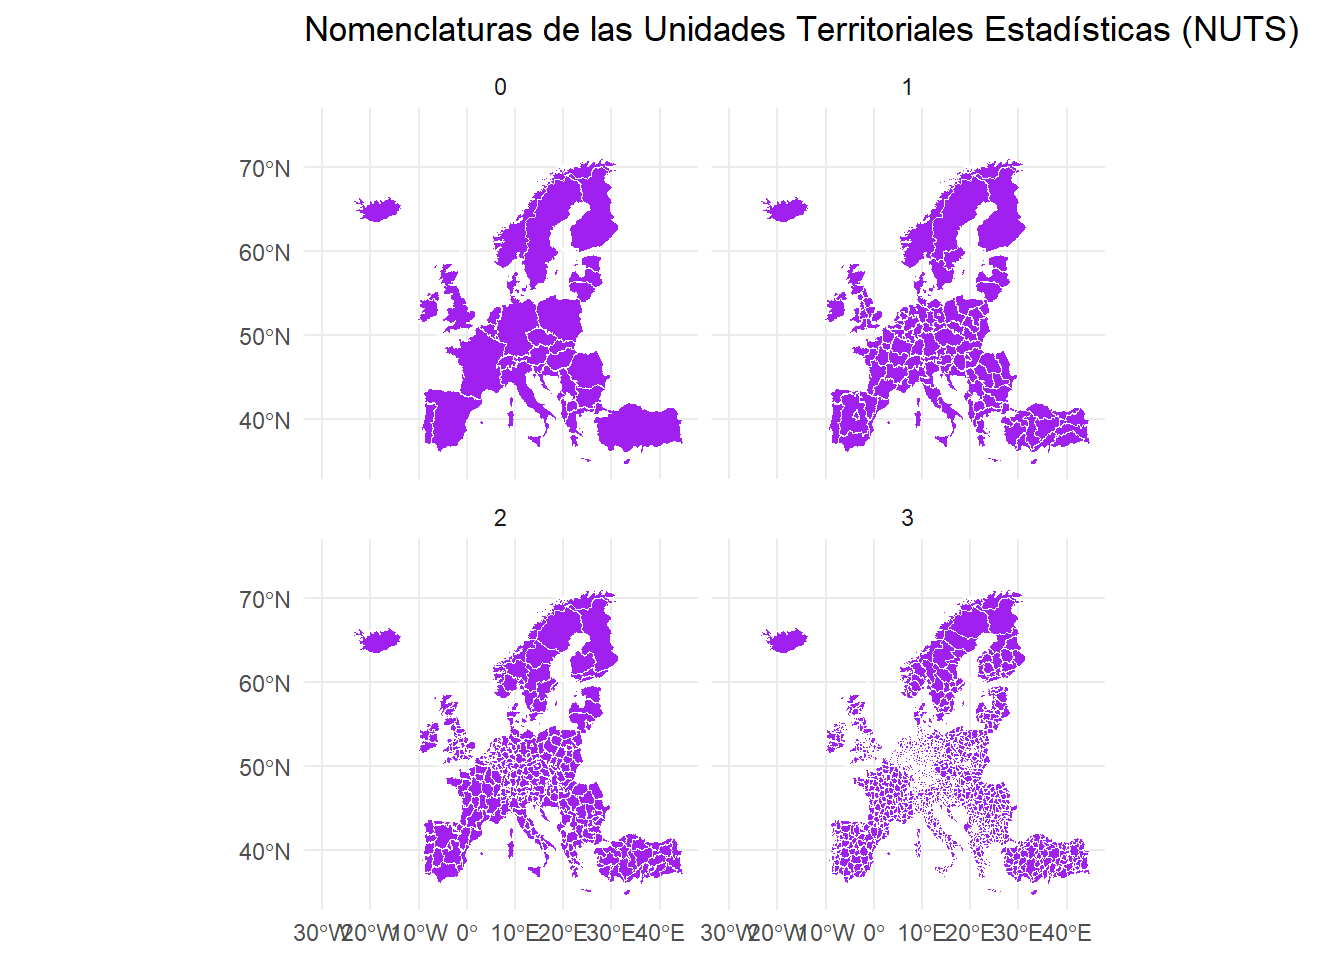
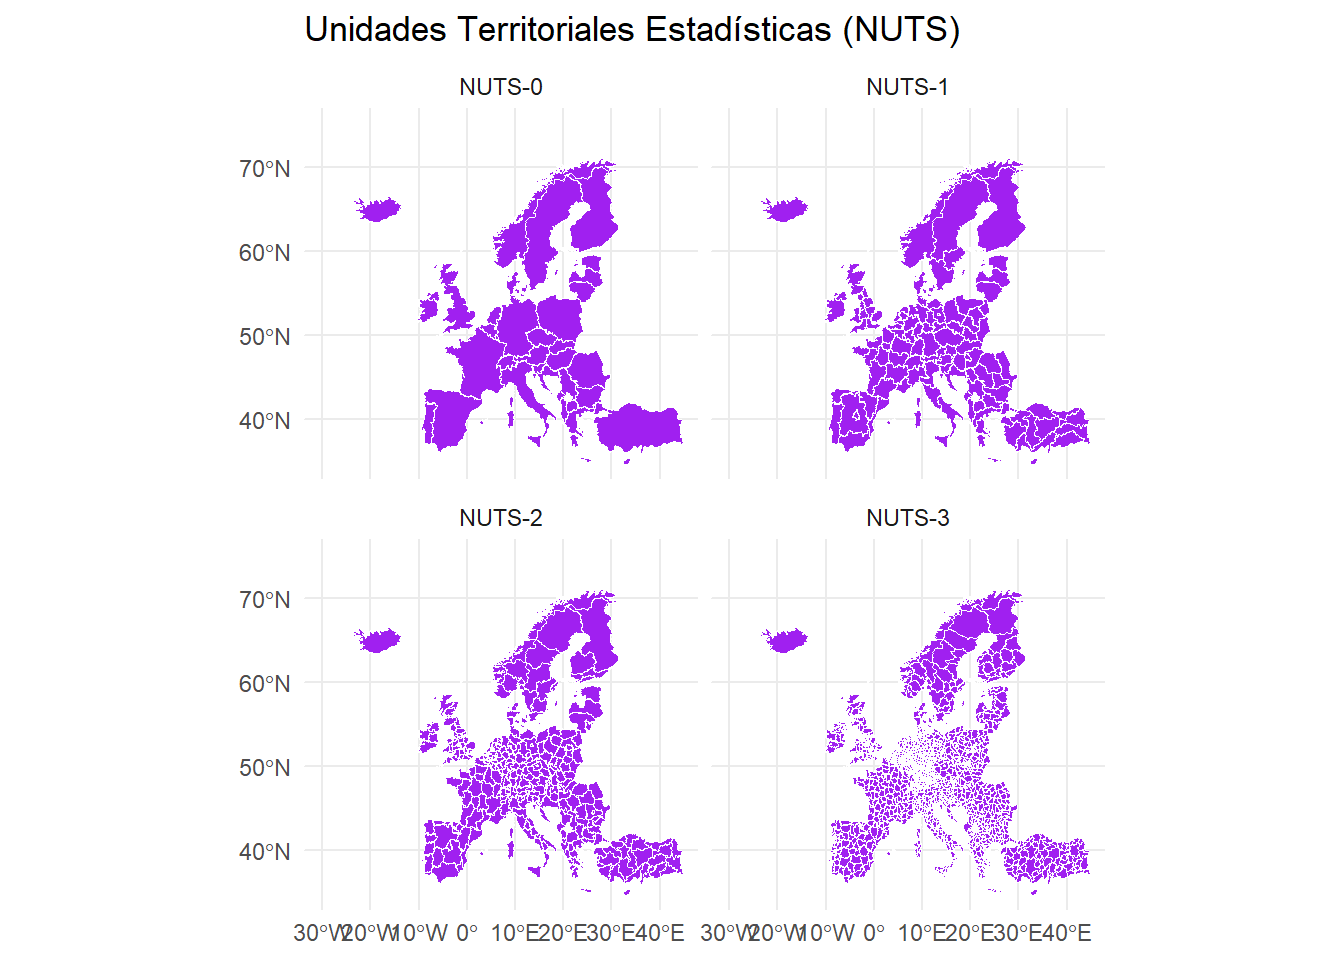
post 13

Changed region(s): [[0.2188, 0.0, 0.9688, 0.0938], [0.625, 0.5312, 0.7188, 0.5625], [0.3438, 0.5312, 0.4062, 0.5625]]

diff --git a/public/tags/mapas/index.html b/public/tags/mapas/index.html
@@ -14,7 +14,7 @@
     <script async custom-element="amp-youtube" src="https://cdn.ampproject.org/v0/amp-youtube-0.1.js"></script>
     
     <script async custom-element="amp-accordion" src="https://cdn.ampproject.org/v0/amp-accordion-0.1.js"></script>
-    <title>Mapas - R que R</title>
+    <title>mapas - R que R</title>
     <link href="https://fonts.googleapis.com/css?family=Inconsolata|Montserrat" rel="stylesheet">
[1 lines of base64/hex data omitted]
 </head>
@@ -62,7 +62,7 @@
     
 
     <header class="www-header">
-        <h1 class="mb4 px2 col-12 sm-col-8 mx-auto">Mapas</h1>
+        <h1 class="mb4 px2 col-12 sm-col-8 mx-auto">mapas</h1>
 
         
 

diff --git a/public/tags/maps/index.html b/public/tags/maps/index.html
@@ -14,7 +14,7 @@
     <script async custom-element="amp-youtube" src="https://cdn.ampproject.org/v0/amp-youtube-0.1.js"></script>
     
     <script async custom-element="amp-accordion" src="https://cdn.ampproject.org/v0/amp-accordion-0.1.js"></script>
-    <title>Maps - R que R</title>
+    <title>maps - R que R</title>
     <link href="https://fonts.googleapis.com/css?family=Inconsolata|Montserrat" rel="stylesheet">
[1 lines of base64/hex data omitted]
 </head>
@@ -62,7 +62,7 @@
     
 
     <header class="www-header">
-        <h1 class="mb4 px2 col-12 sm-col-8 mx-auto">Maps</h1>
+        <h1 class="mb4 px2 col-12 sm-col-8 mx-auto">maps</h1>
 
         
 

diff --git a/content/nuts.html b/content/nuts.html
@@ -28,26 +28,9 @@ tags: ["Eurostat", "NUTS", "Europa", "Mapas"]
 </p>
 <pre class="r"><code>
 library(eurostat)
-## Warning: package &#39;eurostat&#39; was built under R version 3.6.1
 library(tidyverse)
-## Warning: package &#39;tidyverse&#39; was built under R version 3.6.1
-## -- Attaching packages --------------------------------------------------------------------------------------------------------------------------- tidyverse 1.2.1 --
-## v ggplot2 3.2.1     v purrr   0.3.3
-## v tibble  2.1.3     v dplyr   0.8.3
-## v tidyr   1.0.0     v stringr 1.4.0
-## v readr   1.3.1     v forcats 0.4.0
-## Warning: package &#39;ggplot2&#39; was built under R version 3.6.1
-## Warning: package &#39;tidyr&#39; was built under R version 3.6.1
-## Warning: package &#39;purrr&#39; was built under R version 3.6.1
-## Warning: package &#39;dplyr&#39; was built under R version 3.6.1
-## -- Conflicts ------------------------------------------------------------------------------------------------------------------------------ tidyverse_conflicts() --
-## x dplyr::filter() masks stats::filter()
-## x dplyr::lag()    masks stats::lag()
 library(sf)
-## Warning: package &#39;sf&#39; was built under R version 3.6.1
-## Linking to GEOS 3.6.1, GDAL 2.2.3, PROJ 4.9.3
-library(DT)
-## Warning: package &#39;DT&#39; was built under R version 3.6.1</code></pre>
+library(DT)</code></pre>
 <p><br />
 </p>
 </div>
@@ -55,9 +38,13 @@ library(DT)
 <h1>Simple feature (sf)</h1>
 <p><br />
 </p>
-<p>Como se expone <a href="https://r-spatial.github.io/sf/articles/sf1.html">aquí</a>, <em>simple feature</em> o <em>simple feature access</em> hace referencia al <em>International Organization for Standarization (ISO 19125)</em> que describe y especifica cómo los objetos en el mundo real pueden ser representados en los ordenadores, con especial énfasis a los objetos espaciales geométricos. Por tanto, definen un modelo común de geometrías de dos dimensiones que se utilizan en los sistemas de información geográfica.</p>
+<p>Como se expone <a href="https://r-spatial.github.io/sf/articles/sf1.html">aquí</a>, <em>simple feature</em> o <em>simple feature access</em> hace referencia al <em>International Organization for Standarization (ISO 19125)</em> que describe y especifica cómo los objetos en el mundo real pueden ser representados en los ordenadores, con especial énfasis a los objetos espaciales geométricos. Por tanto, definen un modelo común de geometrías de dos dimensiones que se utilizan en los sistemas de información geográfica.<br />
+</p>
+<p>Para realizar mapas base a cada uno de los niveles NUTS podemos obtener el sf con la función <code>get_eurostat_geospatial()</code> y representar el mapa al nivel deseado utilizando los siguientes comandos:</p>
 <p><br />
 </p>
+<div id="nuts-0" class="section level2">
+<h2>NUTS-0</h2>
 <pre class="r"><code>
 # NUTS-0
 mapdata_0 &lt;- get_eurostat_geospatial(nuts_level = 0)
@@ -97,9 +84,12 @@ mapdata_0 %&gt;%
   xlim(c(-30, 44)) +
   ylim(c(35, 75)) + 
   ggtitle(&quot;NUTS-0&quot;)</code></pre>
-<p><img src="/nuts_files/figure-html/unnamed-chunk-2-1.png" width="672" style="display: block; margin: auto;" /></p>
+<p><img src="/nuts_files/figure-html/unnamed-chunk-2-1.png" width="70%" style="display: block; margin: auto;" /></p>
 <p><br />
 </p>
+</div>
+<div id="nuts-1" class="section level2">
+<h2>NUTS-1</h2>
 <pre class="r"><code>
 # NUTS-1
 mapdata_1 &lt;- get_eurostat_geospatial(nuts_level = 1)
@@ -139,9 +129,12 @@ mapdata_1 %&gt;%
   xlim(c(-30, 44)) +
   ylim(c(35, 75)) + 
   ggtitle(&quot;NUTS-1&quot;)</code></pre>
-<p><img src="/nuts_files/figure-html/unnamed-chunk-3-1.png" width="60%" style="display: block; margin: auto;" /></p>
+<p><img src="/nuts_files/figure-html/unnamed-chunk-3-1.png" width="70%" style="display: block; margin: auto;" /></p>
 <p><br />
 </p>
+</div>
+<div id="nuts-2" class="section level2">
+<h2>NUTS-2</h2>
 <pre class="r"><code>
 # NUTS-2
 mapdata_2 &lt;- get_eurostat_geospatial(nuts_level = 2)
@@ -174,9 +167,12 @@ mapdata_2 %&gt;%
   xlim(c(-30, 44)) +
   ylim(c(35, 75)) + 
   ggtitle(&quot;NUTS-2&quot;)</code></pre>
-<p><img src="/nuts_files/figure-html/unnamed-chunk-4-1.png" width="60%" style="display: block; margin: auto;" /></p>
+<p><img src="/nuts_files/figure-html/unnamed-chunk-4-1.png" width="70%" style="display: block; margin: auto;" /></p>
 <p><br />
 </p>
+</div>
+<div id="nuts-3" class="section level2">
+<h2>NUTS-3</h2>
 <pre class="r"><code>
 # NUTS-3
 mapdata_3 &lt;- get_eurostat_geospatial(nuts_level = 3)
@@ -216,9 +212,12 @@ mapdata_3 %&gt;%
   xlim(c(-30, 44)) +
   ylim(c(35, 75)) + 
   ggtitle(&quot;NUTS-3&quot;)</code></pre>
-<p><img src="/nuts_files/figure-html/unnamed-chunk-5-1.png" width="60%" style="display: block; margin: auto;" /></p>
+<p><img src="/nuts_files/figure-html/unnamed-chunk-5-1.png" width="70%" style="display: block; margin: auto;" /></p>
 <p><br />
 </p>
+</div>
+<div id="all-levels" class="section level2">
+<h2>ALL LEVELS</h2>
 <pre class="r"><code>
 # ALL NUTS
 mapdata_all &lt;- get_eurostat_geospatial(nuts_level = &quot;all&quot;)
@@ -252,16 +251,18 @@ head(mapdata_all)
 ## 6         0  BE      BE MULTIPOLYGON (((5.10218 51....  BE
 
 mapdata_all %&gt;% 
+  mutate(LEVL_CODE_2 = recode_factor(LEVL_CODE, `0`= &quot;NUTS-0&quot;, `1`= &quot;NUTS-1&quot;, `2`= &quot;NUTS-2&quot;, `3`= &quot;NUTS-3&quot; )) %&gt;%
   ggplot(., aes()) +
   geom_sf(fill=&quot;purple&quot;, color=&quot;white&quot;, size = 0.1) +
   theme_minimal() +
   xlim(c(-30, 44)) +
   ylim(c(35, 75)) + 
-  facet_wrap(~LEVL_CODE) +
-  ggtitle(&quot;Nomenclaturas de las Unidades Territoriales Estadísticas (NUTS)&quot;)</code></pre>
-<p><img src="/nuts_files/figure-html/unnamed-chunk-6-1.png" width="672" /></p>
+  facet_wrap(~LEVL_CODE_2) +
+  ggtitle(&quot;Unidades Territoriales Estadísticas (NUTS)&quot;)</code></pre>
+<p><img src="/nuts_files/figure-html/unnamed-chunk-6-1.png" width="90%" style="display: block; margin: auto;" /></p>
 <p><br />
 </p>
+</div>
 </div>
 <div id="spatial-polygon-dataframe-spdf" class="section level1">
 <h1>Spatial Polygon Dataframe (spdf)</h1>

diff --git a/public/nuts/index.html b/public/nuts/index.html
@@ -112,26 +112,9 @@
 </p>
 <pre class="r"><code>
 library(eurostat)
-## Warning: package &#39;eurostat&#39; was built under R version 3.6.1
 library(tidyverse)
-## Warning: package &#39;tidyverse&#39; was built under R version 3.6.1
-## -- Attaching packages --------------------------------------------------------------------------------------------------------------------------- tidyverse 1.2.1 --
-## v ggplot2 3.2.1     v purrr   0.3.3
-## v tibble  2.1.3     v dplyr   0.8.3
-## v tidyr   1.0.0     v stringr 1.4.0
-## v readr   1.3.1     v forcats 0.4.0
-## Warning: package &#39;ggplot2&#39; was built under R version 3.6.1
-## Warning: package &#39;tidyr&#39; was built under R version 3.6.1
-## Warning: package &#39;purrr&#39; was built under R version 3.6.1
-## Warning: package &#39;dplyr&#39; was built under R version 3.6.1
-## -- Conflicts ------------------------------------------------------------------------------------------------------------------------------ tidyverse_conflicts() --
-## x dplyr::filter() masks stats::filter()
-## x dplyr::lag()    masks stats::lag()
 library(sf)
-## Warning: package &#39;sf&#39; was built under R version 3.6.1
-## Linking to GEOS 3.6.1, GDAL 2.2.3, PROJ 4.9.3
-library(DT)
-## Warning: package &#39;DT&#39; was built under R version 3.6.1</code></pre>
+library(DT)</code></pre>
 <p><br />
 </p>
 </div>
@@ -139,9 +122,13 @@ library(DT)
 <h1>Simple feature (sf)</h1>
 <p><br />
 </p>
-<p>Como se expone <a href="https://r-spatial.github.io/sf/articles/sf1.html">aquí</a>, <em>simple feature</em> o <em>simple feature access</em> hace referencia al <em>International Organization for Standarization (ISO 19125)</em> que describe y especifica cómo los objetos en el mundo real pueden ser representados en los ordenadores, con especial énfasis a los objetos espaciales geométricos. Por tanto, definen un modelo común de geometrías de dos dimensiones que se utilizan en los sistemas de información geográfica.</p>
+<p>Como se expone <a href="https://r-spatial.github.io/sf/articles/sf1.html">aquí</a>, <em>simple feature</em> o <em>simple feature access</em> hace referencia al <em>International Organization for Standarization (ISO 19125)</em> que describe y especifica cómo los objetos en el mundo real pueden ser representados en los ordenadores, con especial énfasis a los objetos espaciales geométricos. Por tanto, definen un modelo común de geometrías de dos dimensiones que se utilizan en los sistemas de información geográfica.<br />
+</p>
+<p>Para realizar mapas base a cada uno de los niveles NUTS podemos obtener el sf con la función <code>get_eurostat_geospatial()</code> y representar el mapa al nivel deseado utilizando los siguientes comandos:</p>
 <p><br />
 </p>
+<div id="nuts-0" class="section level2">
+<h2>NUTS-0</h2>
 <pre class="r"><code>
 # NUTS-0
 mapdata_0 &lt;- get_eurostat_geospatial(nuts_level = 0)
@@ -181,9 +168,12 @@ mapdata_0 %&gt;%
   xlim(c(-30, 44)) +
   ylim(c(35, 75)) + 
   ggtitle(&quot;NUTS-0&quot;)</code></pre>
-<p><img src="/nuts_files/figure-html/unnamed-chunk-2-1.png" width="672" style="display: block; margin: auto;" /></p>
+<p><img src="/nuts_files/figure-html/unnamed-chunk-2-1.png" width="70%" style="display: block; margin: auto;" /></p>
 <p><br />
 </p>
+</div>
+<div id="nuts-1" class="section level2">
+<h2>NUTS-1</h2>
 <pre class="r"><code>
 # NUTS-1
 mapdata_1 &lt;- get_eurostat_geospatial(nuts_level = 1)
@@ -223,9 +213,12 @@ mapdata_1 %&gt;%
   xlim(c(-30, 44)) +
   ylim(c(35, 75)) + 
   ggtitle(&quot;NUTS-1&quot;)</code></pre>
-<p><img src="/nuts_files/figure-html/unnamed-chunk-3-1.png" width="60%" style="display: block; margin: auto;" /></p>
+<p><img src="/nuts_files/figure-html/unnamed-chunk-3-1.png" width="70%" style="display: block; margin: auto;" /></p>
 <p><br />
 </p>
+</div>
+<div id="nuts-2" class="section level2">
+<h2>NUTS-2</h2>
 <pre class="r"><code>
 # NUTS-2
 mapdata_2 &lt;- get_eurostat_geospatial(nuts_level = 2)
@@ -258,9 +251,12 @@ mapdata_2 %&gt;%
   xlim(c(-30, 44)) +
   ylim(c(35, 75)) + 
   ggtitle(&quot;NUTS-2&quot;)</code></pre>
-<p><img src="/nuts_files/figure-html/unnamed-chunk-4-1.png" width="60%" style="display: block; margin: auto;" /></p>
+<p><img src="/nuts_files/figure-html/unnamed-chunk-4-1.png" width="70%" style="display: block; margin: auto;" /></p>
 <p><br />
 </p>
+</div>
+<div id="nuts-3" class="section level2">
+<h2>NUTS-3</h2>
 <pre class="r"><code>
 # NUTS-3
 mapdata_3 &lt;- get_eurostat_geospatial(nuts_level = 3)
@@ -300,9 +296,12 @@ mapdata_3 %&gt;%
   xlim(c(-30, 44)) +
   ylim(c(35, 75)) + 
   ggtitle(&quot;NUTS-3&quot;)</code></pre>
-<p><img src="/nuts_files/figure-html/unnamed-chunk-5-1.png" width="60%" style="display: block; margin: auto;" /></p>
+<p><img src="/nuts_files/figure-html/unnamed-chunk-5-1.png" width="70%" style="display: block; margin: auto;" /></p>
 <p><br />
 </p>
+</div>
+<div id="all-levels" class="section level2">
+<h2>ALL LEVELS</h2>
 <pre class="r"><code>
 # ALL NUTS
 mapdata_all &lt;- get_eurostat_geospatial(nuts_level = &quot;all&quot;)
@@ -336,16 +335,18 @@ head(mapdata_all)
 ## 6         0  BE      BE MULTIPOLYGON (((5.10218 51....  BE
 
 mapdata_all %&gt;% 
+  mutate(LEVL_CODE_2 = recode_factor(LEVL_CODE, `0`= &quot;NUTS-0&quot;, `1`= &quot;NUTS-1&quot;, `2`= &quot;NUTS-2&quot;, `3`= &quot;NUTS-3&quot; )) %&gt;%
   ggplot(., aes()) +
   geom_sf(fill=&quot;purple&quot;, color=&quot;white&quot;, size = 0.1) +
   theme_minimal() +
   xlim(c(-30, 44)) +
   ylim(c(35, 75)) + 
-  facet_wrap(~LEVL_CODE) +
-  ggtitle(&quot;Nomenclaturas de las Unidades Territoriales Estadísticas (NUTS)&quot;)</code></pre>
-<p><img src="/nuts_files/figure-html/unnamed-chunk-6-1.png" width="672" /></p>
+  facet_wrap(~LEVL_CODE_2) +
+  ggtitle(&quot;Unidades Territoriales Estadísticas (NUTS)&quot;)</code></pre>
+<p><img src="/nuts_files/figure-html/unnamed-chunk-6-1.png" width="90%" style="display: block; margin: auto;" /></p>
 <p><br />
 </p>
+</div>
 </div>
 <div id="spatial-polygon-dataframe-spdf" class="section level1">
 <h1>Spatial Polygon Dataframe (spdf)</h1>

diff --git a/public/tags/index.html b/public/tags/index.html
@@ -95,7 +95,7 @@
                         </div>
 
                                                 <div class="ampstart-card abe-sample-card flex flex-column flex-auto p1 mb1">
-                            <h3 class="mb1">Mapas<i class=""></i></h3>
+                            <h3 class="mb1">mapas<i class=""></i></h3>
                             
                                 <p class="mb1"></p>
                             
@@ -195,7 +195,7 @@
                         </div>
 
                                                 <div class="ampstart-card abe-sample-card flex flex-column flex-auto p1 mb1">
-                            <h3 class="mb1">Maps<i class=""></i></h3>
+                            <h3 class="mb1">maps<i class=""></i></h3>
                             
                                 <p class="mb1"></p>
                             
